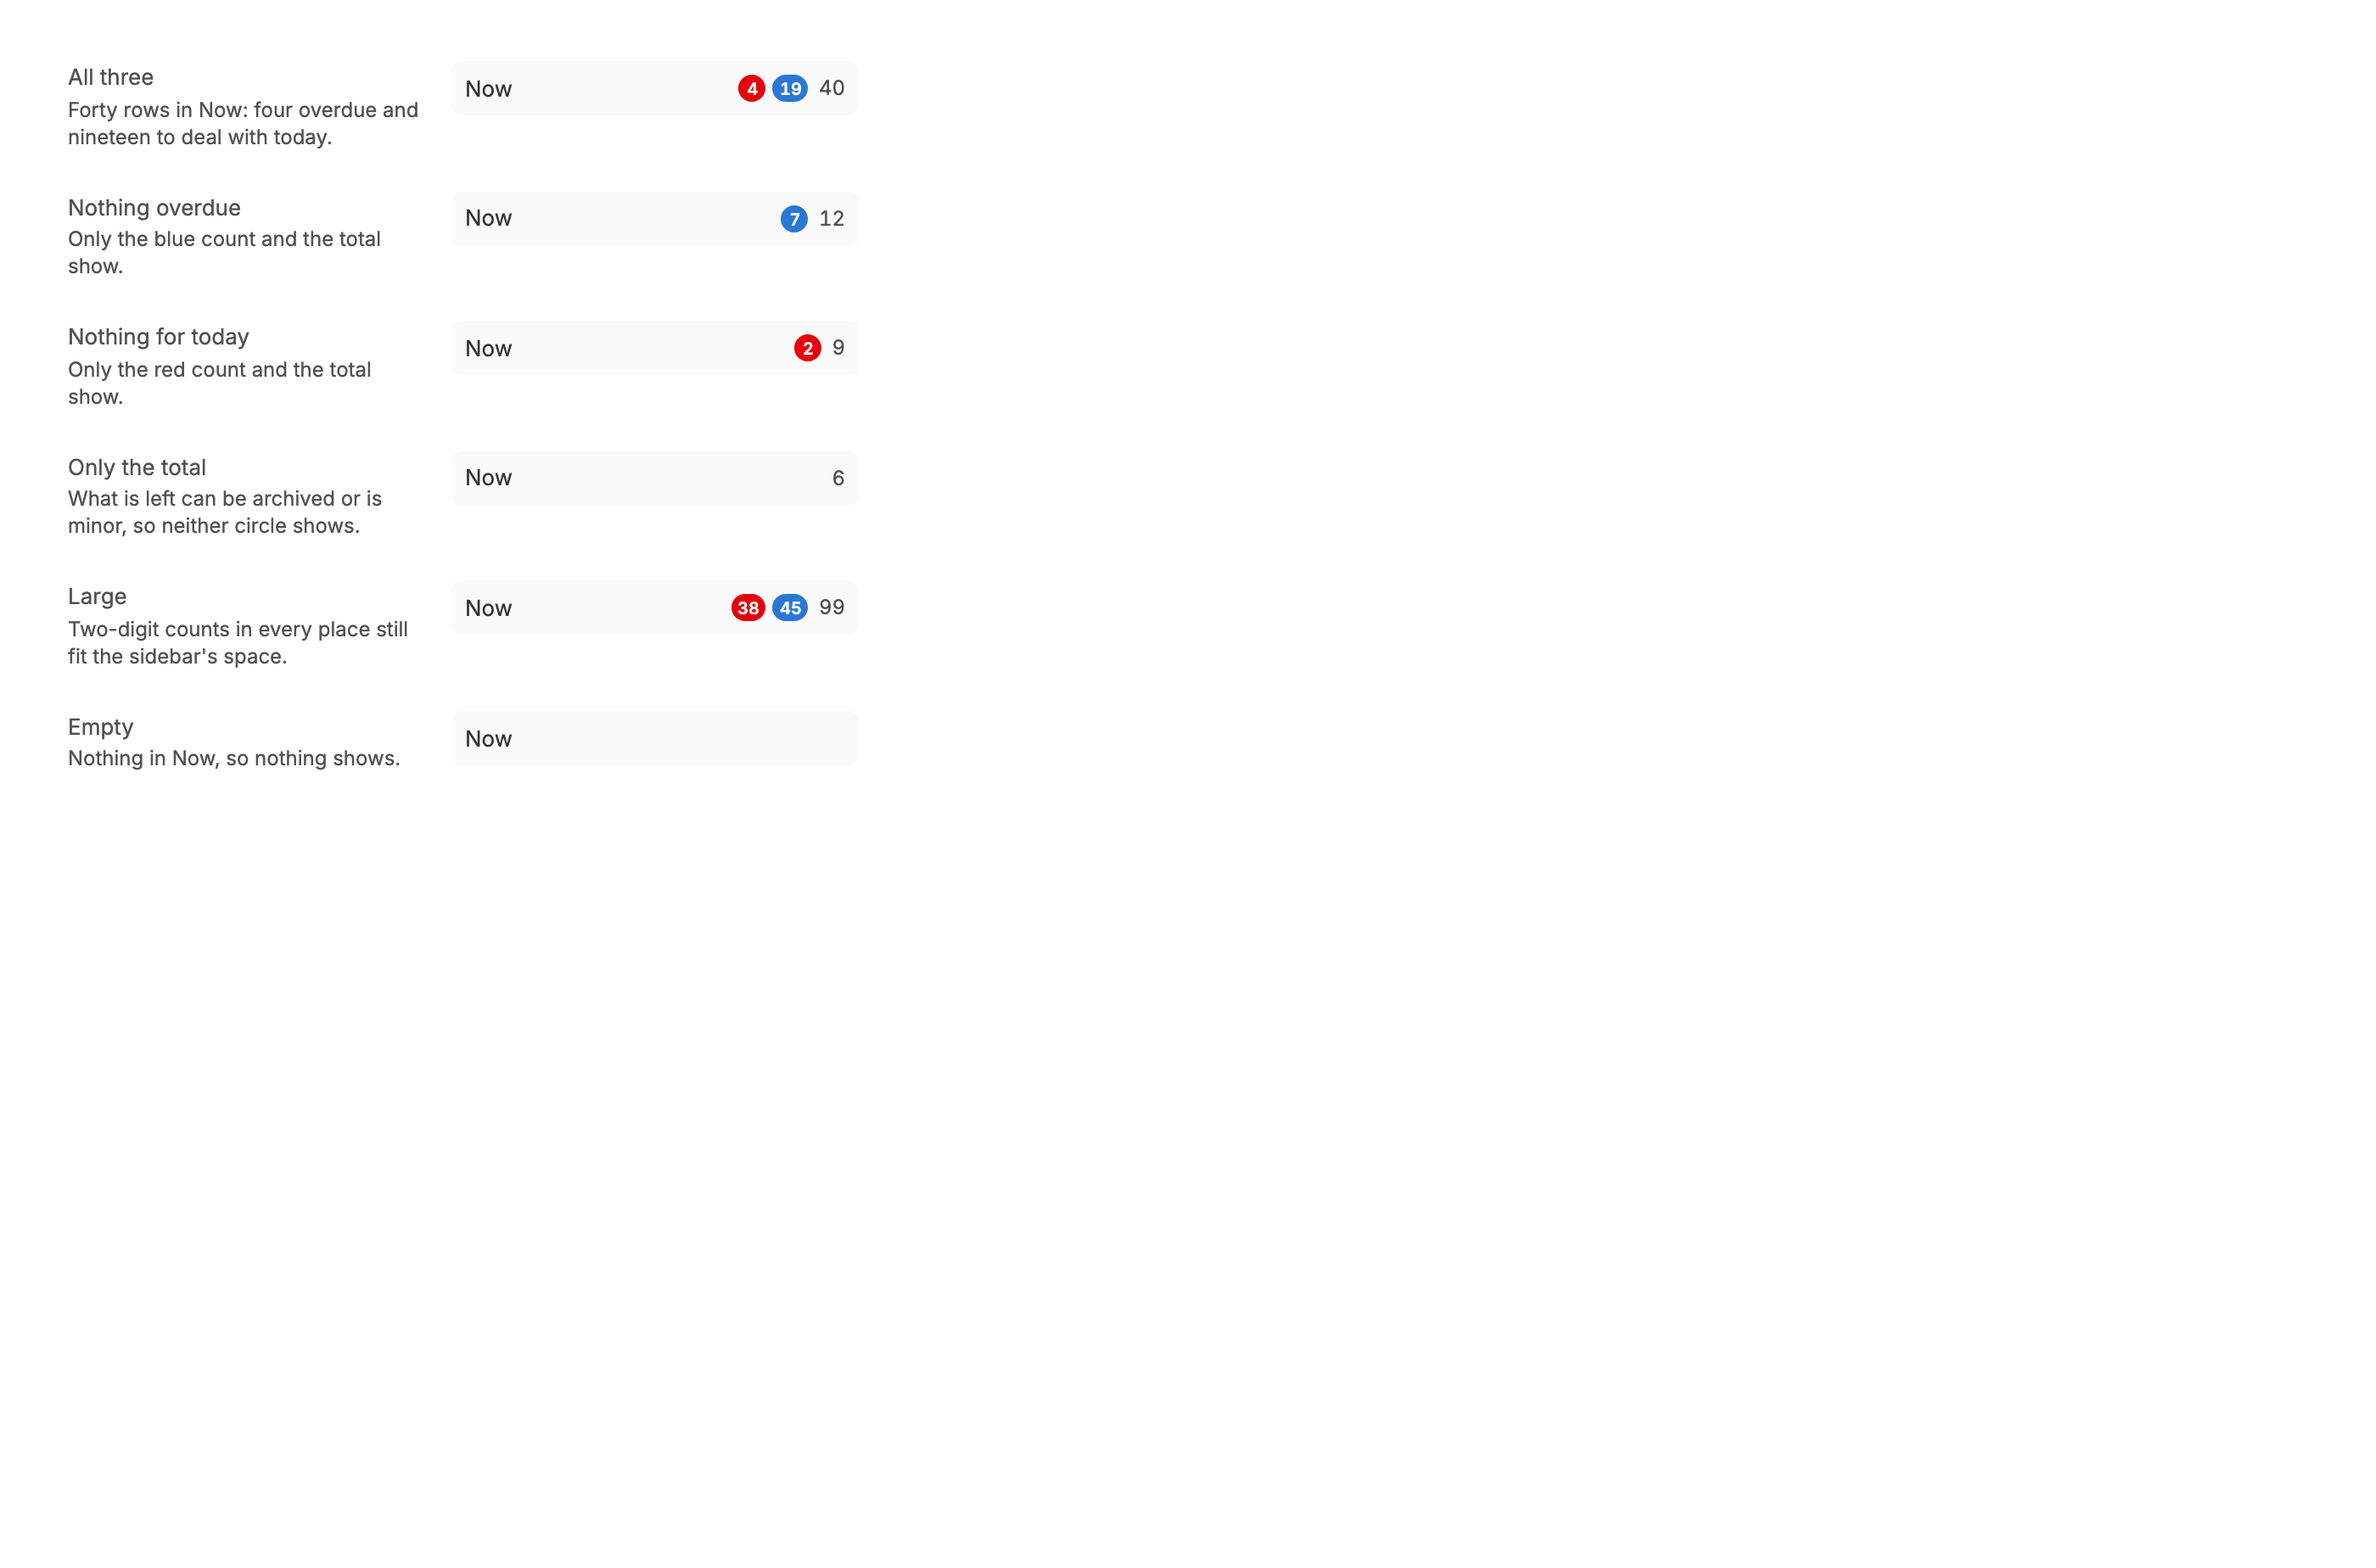
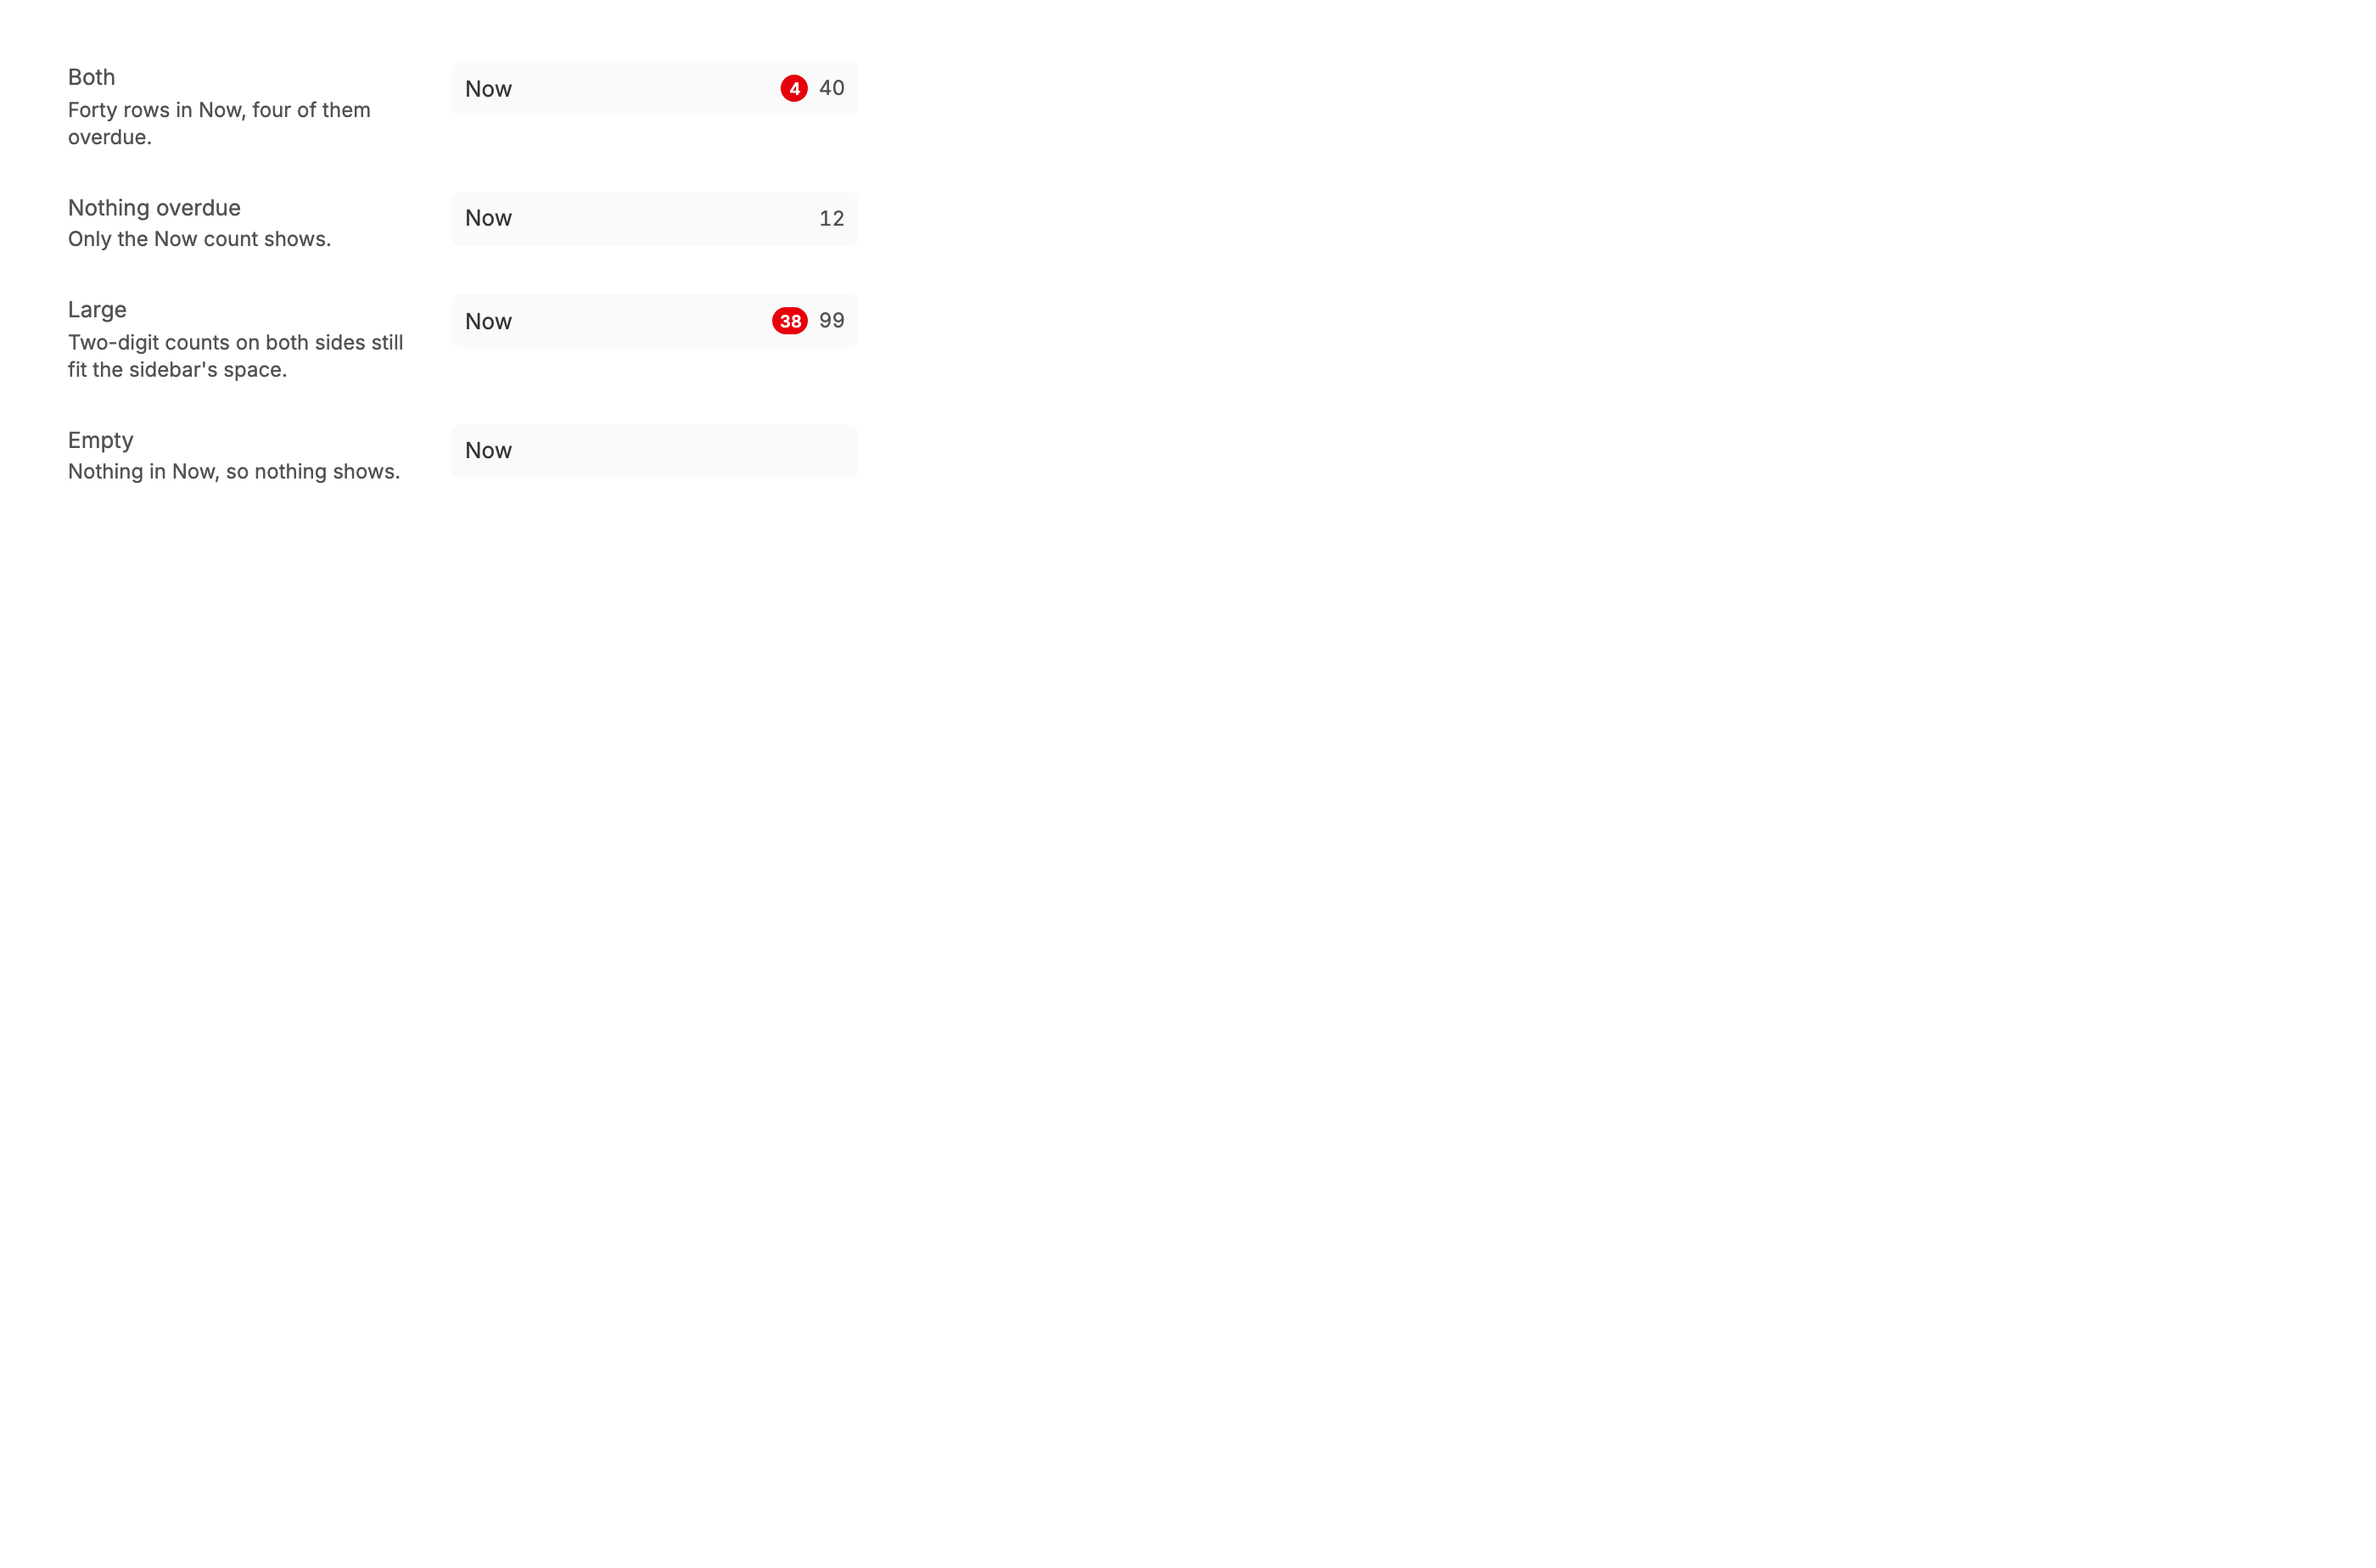
54e49a4 Show only the overdue count and the total beside Now in the sidebar
danielbachhuber/bb-plugins@54e49a4cb3631c0f12461e6f1f20d4d111a28cd1

Captured with uncommitted changes in the bb-plugins checkout.

diff --git a/now/README.md b/now/README.md
@@ -72,6 +72,6 @@ On a task with no due date and a deadline that has passed, Postpone moves the de
 
 ### Default
 
-The counts beside Now in the sidebar: overdue tasks in a red circle, what to deal with today (Today, Me, and Requests) in a blue one, then every row in the Now section, as its tab counts them.
+The counts beside Now in the sidebar: overdue tasks in a red circle, then every row in the Now section, as its tab counts them.
 
 ![Default](sidebar-counts--default.png)
